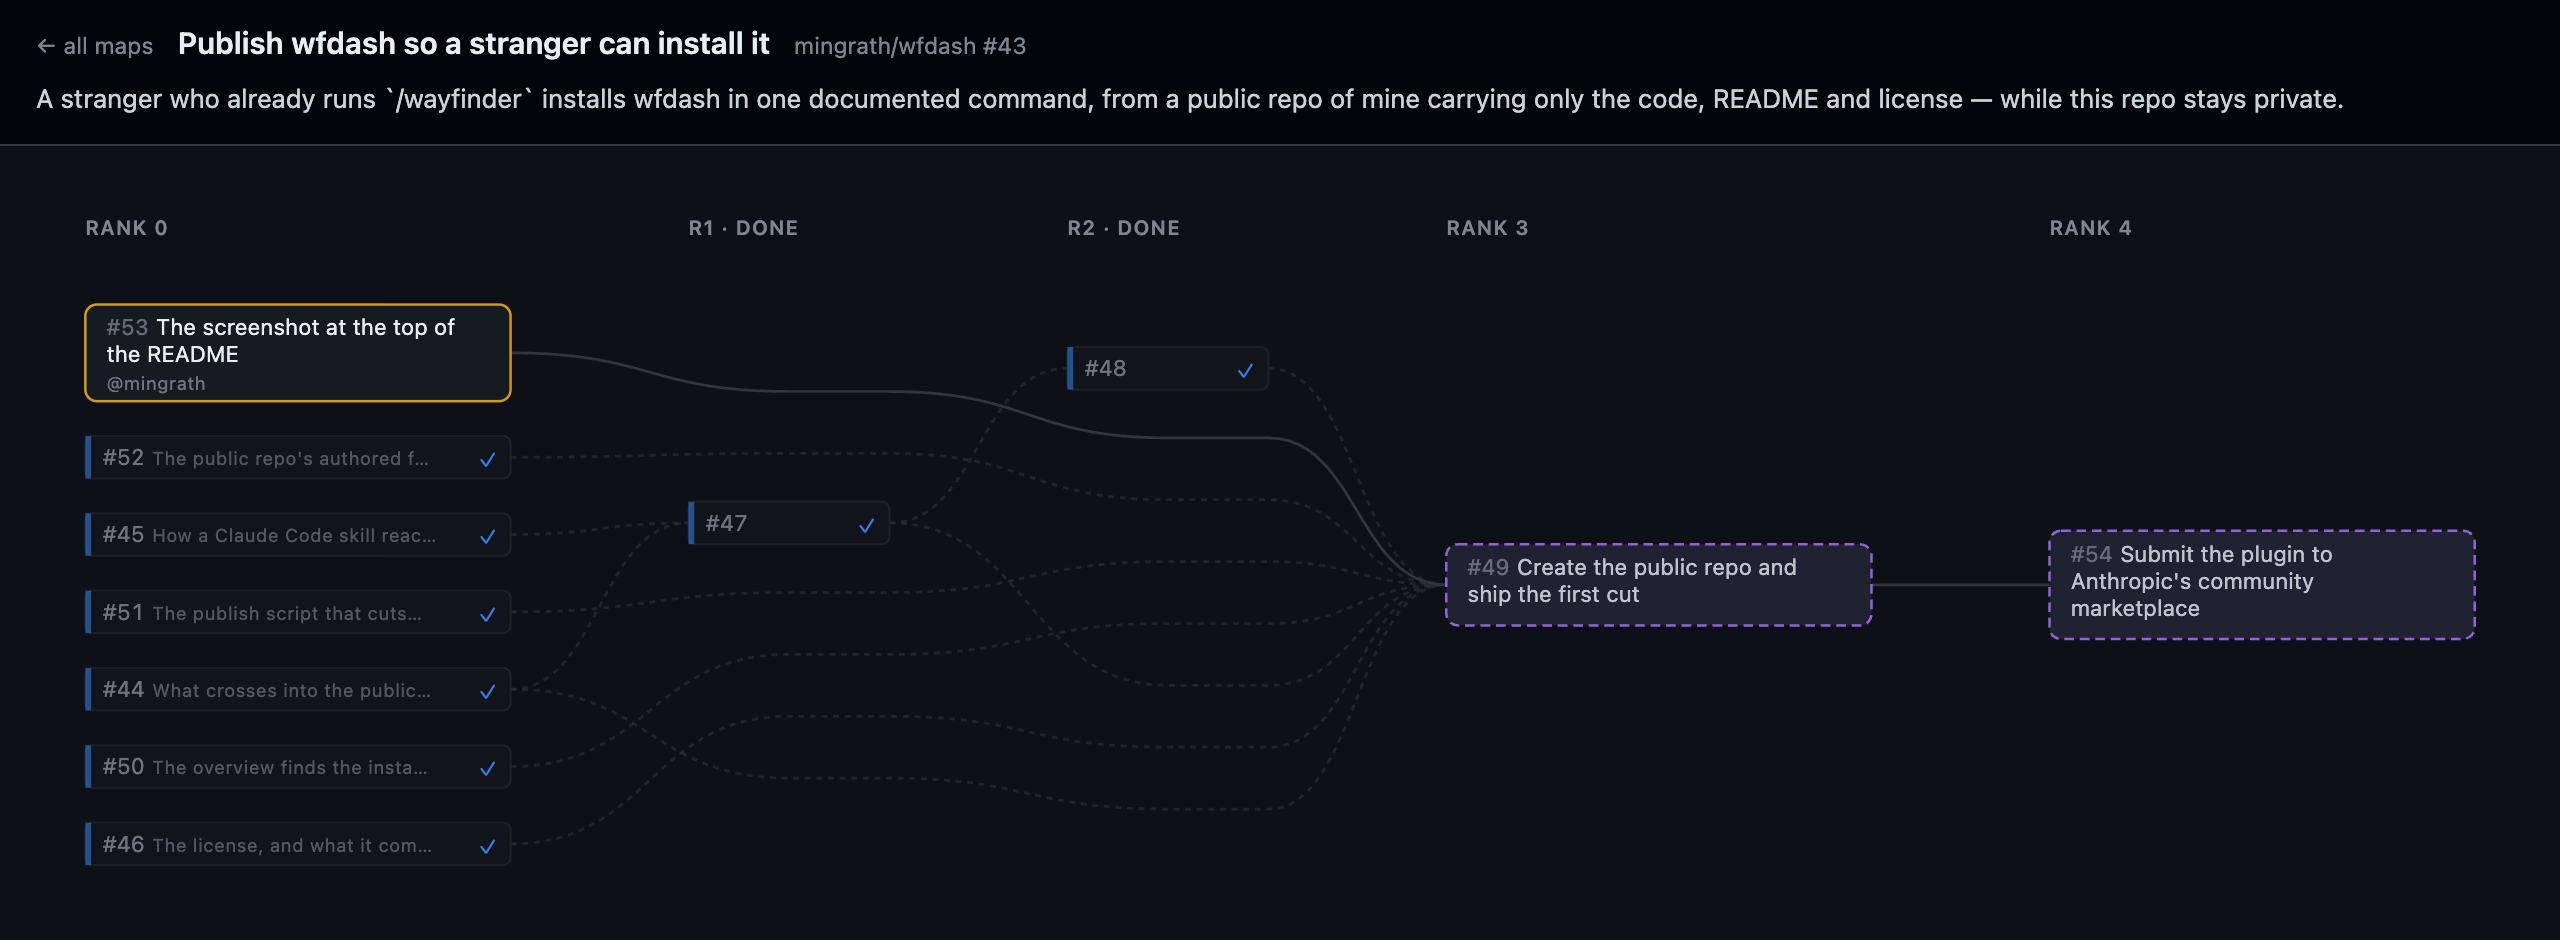
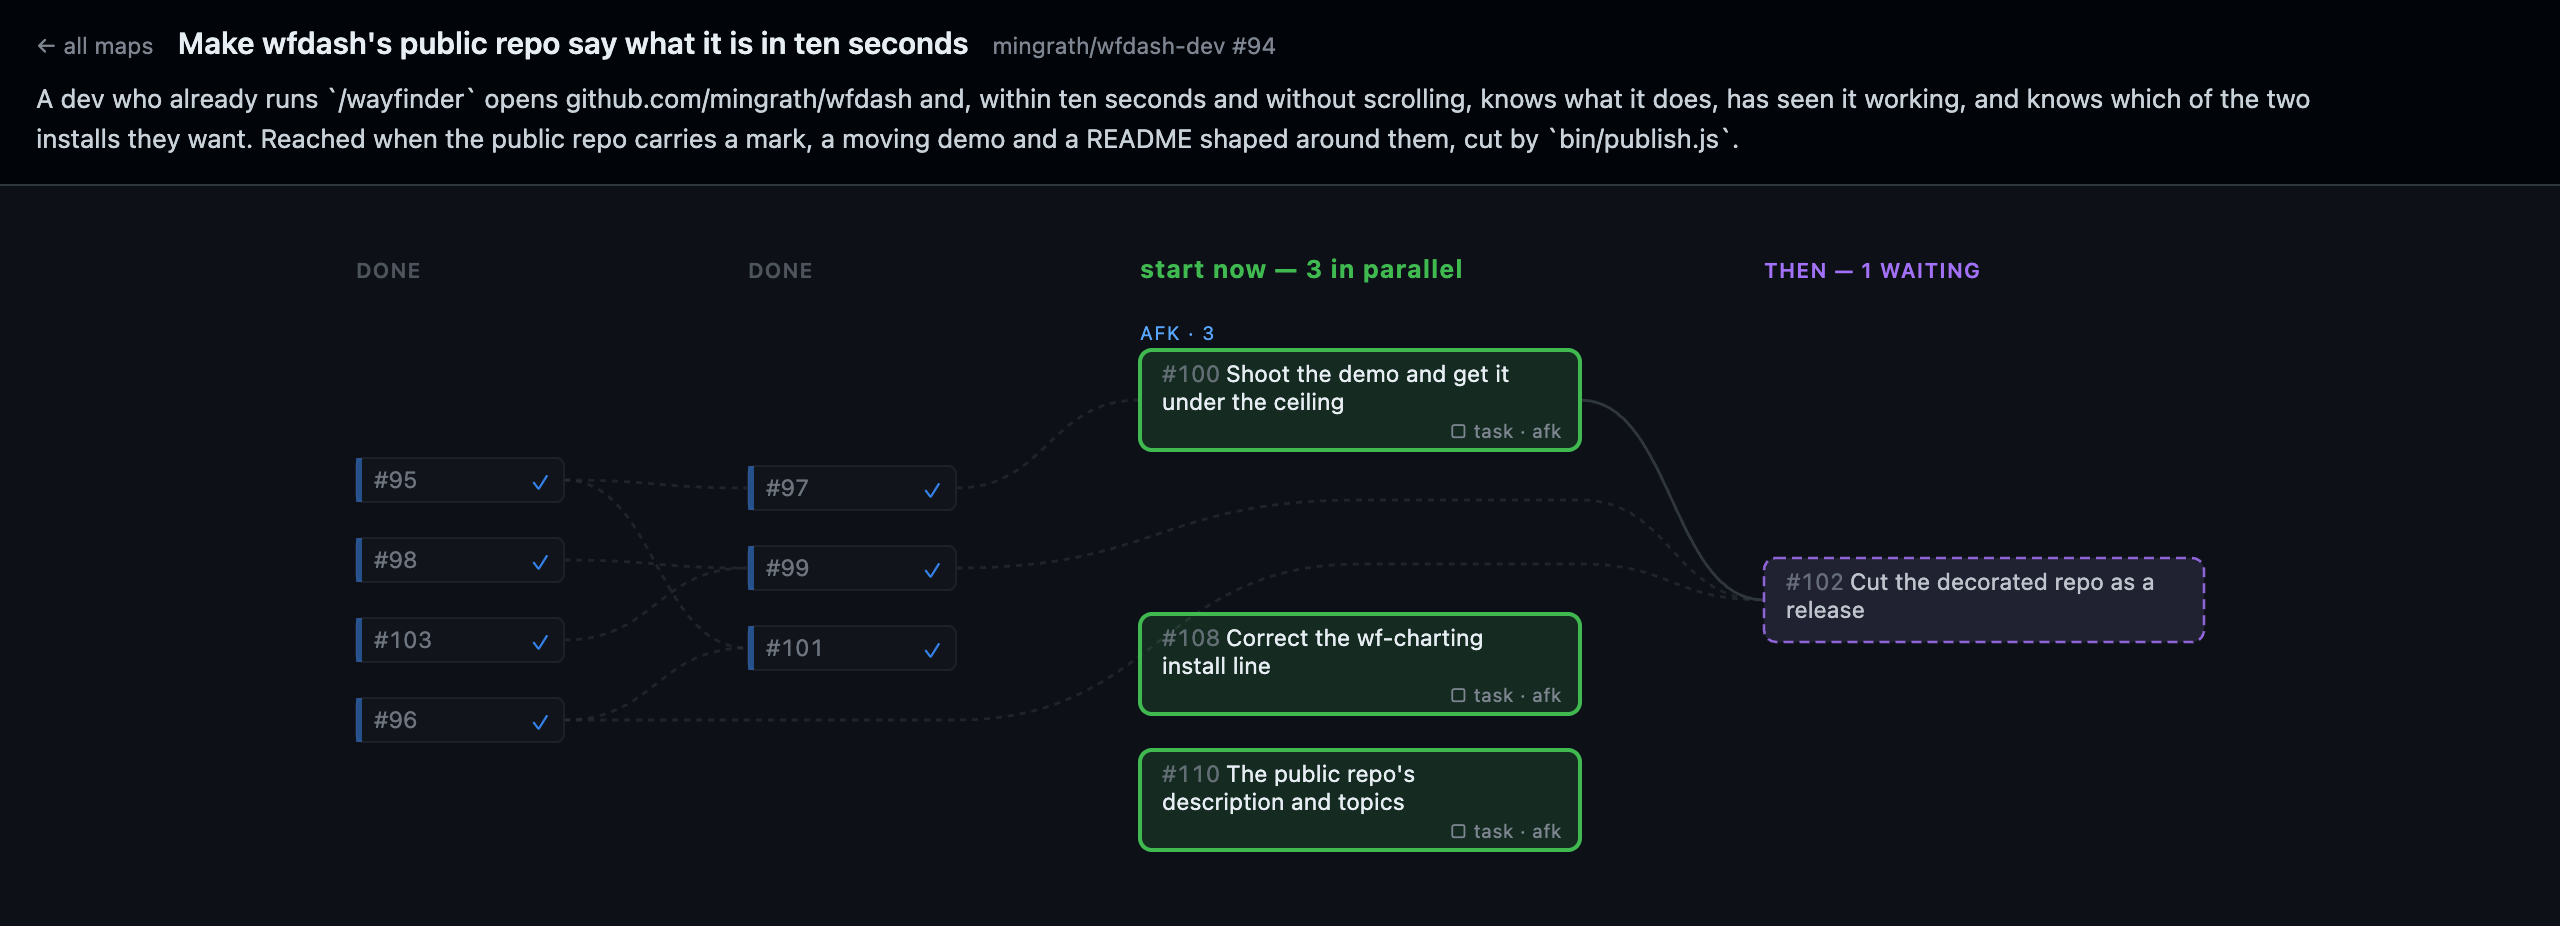
wfdash 0.1.5

diff --git a/plugins/wayfinder-tools/README.md b/plugins/wayfinder-tools/README.md
@@ -1,56 +1,48 @@
-# wfdash
+<picture>
+  <source media="(prefers-color-scheme: dark)" srcset="https://raw.githubusercontent.com/mingrath/wfdash/main/docs/wfdash-lockup-dark.svg">
+  <img alt="wfdash" src="https://raw.githubusercontent.com/mingrath/wfdash/main/docs/wfdash-lockup-light.svg" width="300">
+</picture>
 
-![the map view](https://raw.githubusercontent.com/mingrath/wfdash/main/docs/map-view.png)
+Your wayfinder maps as a local browser dashboard — see what needs you now, and what can run
+while you're away.
 
-A wayfinder map is a GitHub issue whose sub-issues are its tickets, wired together with
-native issue dependencies. GitHub renders that as a flat list, so the shape of an effort —
-what is finished, what is takeable right now, what is waiting on what — is not visible
-anywhere. `wfdash` serves it as a local browser dashboard: one map drawn as a dependency
-DAG, plus an overview of every map you can see, across every repo.
-
-Read-only, zero npm dependencies, no build step.
+![the map, before and after the human work is done](https://raw.githubusercontent.com/mingrath/wfdash/main/docs/demo.gif)
 
 ## Install
 
-    npm i -g @mingrath/wfdash
-    wfdash install
+**Which agent are you running?**
 
-The first line gives you the `wfdash` command. The second copies the skill into every agent
-on your machine that reads one, and tells you what it wrote and what it skipped:
+| | Run | You get |
+|---|---|---|
+| **Claude Code** | `/plugin marketplace add mingrath/wfdash`<br>`/plugin install wayfinder-tools@mingrath`<br>`/reload-plugins` | **the dashboard** — your maps as a DAG in a browser<br>**the charting rules** — injected into every `/wayfinder` session by a hook |
+| **Any other agent** that reads a `SKILL.md` | `npm i -g @mingrath/wfdash`<br>`wfdash install` | **the dashboard** — as the `wfdash` command, plus a skill so your agent can run it for you<br>**the charting rules** — as a `wf-charting` skill, written into every agent on your machine that reads one |
 
-    wfdash 0.1.1 — installed into 2 of 3 targets
+Both channels are cut from the same tree at the same version, and the rules are the *same
+file* either way, copied from one source at release, so the hook and the skill cannot drift.
 
-      wrote     ~/.agents/skills/wfdash/SKILL.md  Codex CLI, Cursor, Gemini CLI and 2 more
-      skipped   ~/.claude/skills/                 Claude Code — the wayfinder-tools plugin is already installed
-      wrote     ~/.kiro/skills/wfdash/SKILL.md    Kiro
+`wfdash install` tells you what it wrote and what it skipped:
+
+    wfdash 0.1.4 — installed into 2 of 3 targets
+
+      wrote     ~/.agents/skills/wfdash/SKILL.md       Codex CLI, Cursor, Gemini CLI and 2 more
+      wrote     ~/.agents/skills/wf-charting/SKILL.md  Codex CLI, Cursor, Gemini CLI and 2 more
+      skipped   ~/.claude/skills/                      Claude Code — the wayfinder-tools plugin is already installed
+      wrote     ~/.kiro/skills/wfdash/SKILL.md         Kiro
 
       not on this machine: Continue.dev, Windsurf, Qwen Code, JetBrains Junie, Trae, Kilo Code
 
-It writes at the user level only, one file per agent — `SKILL.md` and nothing else — and it
-never overwrites a `wfdash` skill it did not write. Run it again after upgrading; a second
-run is safe and reports `unchanged`. `--agent <name>` installs into one agent whether or not
-it is on this machine, and `--all` lists the ones that are not.
+It writes at the user level only, one file per skill, and never overwrites a skill it did
+not write. Run it again after upgrading; a second run is safe and reports `unchanged`.
+`--agent <name>` installs into one agent whether or not it is on this machine, and `--all`
+lists the ones that are not.
 
-**Claude Code users can skip npm entirely** and take the plugin instead:
+**Just the charting rules, without the dashboard:**
 
-    /plugin marketplace add mingrath/wfdash
-    /plugin install wayfinder-tools@mingrath
-    /reload-plugins
+    npx skills add mingrath/wfdash/wf-charting --global
 
-Both channels are cut from the same tree at the same version. If you have both, `wfdash
-install` leaves Claude Code alone and says so — the plugin already carries the skill.
-
-## Requires
-
-- **`gh` on `PATH` and authenticated** — `gh auth login`. wfdash shells out to it from the
-  server, so it inherits your existing auth and no token ever reaches the browser.
-- **Node 18 or newer** — ES modules and a built-in `fetch`. Nothing else; there are no
-  dependencies to install.
-- **An agent that loads a `SKILL.md`**, or none at all — `wfdash` is a normal command and
-  works on its own from a terminal.
-- **Maps to look at.** wfdash reads one convention: an issue labelled `wayfinder:map`, its
-  tickets as GitHub sub-issues, blocking as native issue dependencies. It is built for maps
-  charted by the `/wayfinder` skill.
+That installs `wf-charting` into `~/.agents/skills/`, which around two dozen agents read.
+Both flags are load-bearing: the subpath takes this one skill rather than both, and
+`--global` writes to your home rather than into the current directory.
 
 ## Use
 
@@ -82,33 +74,31 @@ The dashboard is running either way. `WFDASH_NO_BROWSER=1` forces it.
   start right now. Resolved tickets collapse into a block on the left. Click a ticket for its
   question, its blockers by name, and its whole comment thread.
 
+![the map view](https://raw.githubusercontent.com/mingrath/wfdash/main/docs/map-view.png)
+
 Both pages poll, so claiming a ticket in your terminal shows up without a reload.
 
-## The charting rules, and agents that are not Claude Code
+## Requires
 
-The plugin carries a second thing: a short set of standing rules for **charting** a map —
-mark every ticket `hitl` or `afk` as you create it, when a blocking arrow is warranted and
-why two tickets touching the same files do not need one, and how to chart a sitting so you
-are never left with nothing to answer, or with nothing running while you are away. In Claude
-Code a plugin hook injects them into every `/wayfinder` session, so the install above is all
-there is to it.
+- **`gh` on `PATH` and authenticated** — `gh auth login`. wfdash shells out to it from the
+  server, so it inherits your existing auth and no token ever reaches the browser.
+- **Node 18 or newer** — ES modules and a built-in `fetch`. Zero npm dependencies and no
+  build step, so there is nothing else to install.
+- **An agent that loads a `SKILL.md`**, or none at all — `wfdash` is a normal command and
+  works on its own from a terminal.
+- **Maps to look at.** wfdash reads one convention: an issue labelled `wayfinder:map`, its
+  tickets as GitHub sub-issues, blocking as native issue dependencies. It is built for maps
+  charted by the `/wayfinder` skill.
 
-Hooks are a Claude Code feature. Everywhere else the same rules ship as a skill called
-`wf-charting`, and **`wfdash install` writes it alongside the dashboard skill** — if you
-installed from npm you already have it, in the same roots and reported on its own line:
+## What it won't touch
 
-    wrote     ~/.agents/skills/wfdash/SKILL.md          Codex CLI, Cursor and 2 more
-    wrote     ~/.agents/skills/wf-charting/SKILL.md     Codex CLI, Cursor and 2 more
-
-It can also be taken on its own, without the dashboard:
-
-    npx skills add mingrath/wfdash        # then choose wf-charting
-
-Yes, that command reads as installing a dashboard — this repo is one effort with three faces,
-and that is the third. Every copy is the *same file* the hook injects, fanned out from one
-source at release, so the skill and the hook cannot drift into saying different things.
-
-Nothing here forks, copies, patches, or replaces the `/wayfinder` skill itself.
+- It never writes to your tracker. There are zero write endpoints.
+- Nothing here forks, copies, patches, or replaces the `/wayfinder` skill itself.
+- It shells out to `gh` from the server, so it inherits your existing auth and no token
+  ever reaches the browser.
+- It serves on `127.0.0.1:7777` and nowhere else. `WFDASH_PORT` moves it. It holds no auth,
+  so reaching it from another machine is your port-forward to arrange, not a feature here.
+- It reaps itself after 30 idle minutes.
 
 ## Which agents this works in
 
@@ -145,15 +135,6 @@ not found by that search — set `WFDASH_SEARCH` to a query that reaches them:
 
 A search that quietly returns a subset is the one failure this cannot detect for itself, so
 a short overview is worth a second look rather than a shrug.
-
-## What it will not do
-
-- It never writes to your tracker. There are zero write endpoints.
-- It shells out to `gh` from the server, so it inherits your existing auth and no token
-  ever reaches the browser.
-- It serves on `127.0.0.1:7777` and nowhere else. `WFDASH_PORT` moves it. It holds no auth,
-  so reaching it from another machine is your port-forward to arrange, not a feature here.
-- It reaps itself after 30 idle minutes.
 
 ## Updating
 

diff --git a/README.md b/README.md
@@ -1,56 +1,48 @@
-# wfdash
+<picture>
+  <source media="(prefers-color-scheme: dark)" srcset="docs/wfdash-lockup-dark.svg">
+  <img alt="wfdash" src="docs/wfdash-lockup-light.svg" width="300">
+</picture>
 
-![the map view](docs/map-view.png)
+Your wayfinder maps as a local browser dashboard — see what needs you now, and what can run
+while you're away.
 
-A wayfinder map is a GitHub issue whose sub-issues are its tickets, wired together with
-native issue dependencies. GitHub renders that as a flat list, so the shape of an effort —
-what is finished, what is takeable right now, what is waiting on what — is not visible
-anywhere. `wfdash` serves it as a local browser dashboard: one map drawn as a dependency
-DAG, plus an overview of every map you can see, across every repo.
-
-Read-only, zero npm dependencies, no build step.
+![the map, before and after the human work is done](docs/demo.gif)
 
 ## Install
 
-    npm i -g @mingrath/wfdash
-    wfdash install
+**Which agent are you running?**
 
-The first line gives you the `wfdash` command. The second copies the skill into every agent
-on your machine that reads one, and tells you what it wrote and what it skipped:
+| | Run | You get |
+|---|---|---|
+| **Claude Code** | `/plugin marketplace add mingrath/wfdash`<br>`/plugin install wayfinder-tools@mingrath`<br>`/reload-plugins` | **the dashboard** — your maps as a DAG in a browser<br>**the charting rules** — injected into every `/wayfinder` session by a hook |
+| **Any other agent** that reads a `SKILL.md` | `npm i -g @mingrath/wfdash`<br>`wfdash install` | **the dashboard** — as the `wfdash` command, plus a skill so your agent can run it for you<br>**the charting rules** — as a `wf-charting` skill, written into every agent on your machine that reads one |
 
-    wfdash 0.1.1 — installed into 2 of 3 targets
+Both channels are cut from the same tree at the same version, and the rules are the *same
+file* either way, copied from one source at release, so the hook and the skill cannot drift.
 
-      wrote     ~/.agents/skills/wfdash/SKILL.md  Codex CLI, Cursor, Gemini CLI and 2 more
-      skipped   ~/.claude/skills/                 Claude Code — the wayfinder-tools plugin is already installed
-      wrote     ~/.kiro/skills/wfdash/SKILL.md    Kiro
+`wfdash install` tells you what it wrote and what it skipped:
+
+    wfdash 0.1.4 — installed into 2 of 3 targets
+
+      wrote     ~/.agents/skills/wfdash/SKILL.md       Codex CLI, Cursor, Gemini CLI and 2 more
+      wrote     ~/.agents/skills/wf-charting/SKILL.md  Codex CLI, Cursor, Gemini CLI and 2 more
+      skipped   ~/.claude/skills/                      Claude Code — the wayfinder-tools plugin is already installed
+      wrote     ~/.kiro/skills/wfdash/SKILL.md         Kiro
 
       not on this machine: Continue.dev, Windsurf, Qwen Code, JetBrains Junie, Trae, Kilo Code
 
-It writes at the user level only, one file per agent — `SKILL.md` and nothing else — and it
-never overwrites a `wfdash` skill it did not write. Run it again after upgrading; a second
-run is safe and reports `unchanged`. `--agent <name>` installs into one agent whether or not
-it is on this machine, and `--all` lists the ones that are not.
+It writes at the user level only, one file per skill, and never overwrites a skill it did
+not write. Run it again after upgrading; a second run is safe and reports `unchanged`.
+`--agent <name>` installs into one agent whether or not it is on this machine, and `--all`
+lists the ones that are not.
 
-**Claude Code users can skip npm entirely** and take the plugin instead:
+**Just the charting rules, without the dashboard:**
 
-    /plugin marketplace add mingrath/wfdash
-    /plugin install wayfinder-tools@mingrath
-    /reload-plugins
+    npx skills add mingrath/wfdash/wf-charting --global
 
-Both channels are cut from the same tree at the same version. If you have both, `wfdash
-install` leaves Claude Code alone and says so — the plugin already carries the skill.
-
-## Requires
-
-- **`gh` on `PATH` and authenticated** — `gh auth login`. wfdash shells out to it from the
-  server, so it inherits your existing auth and no token ever reaches the browser.
-- **Node 18 or newer** — ES modules and a built-in `fetch`. Nothing else; there are no
-  dependencies to install.
-- **An agent that loads a `SKILL.md`**, or none at all — `wfdash` is a normal command and
-  works on its own from a terminal.
-- **Maps to look at.** wfdash reads one convention: an issue labelled `wayfinder:map`, its
-  tickets as GitHub sub-issues, blocking as native issue dependencies. It is built for maps
-  charted by the `/wayfinder` skill.
+That installs `wf-charting` into `~/.agents/skills/`, which around two dozen agents read.
+Both flags are load-bearing: the subpath takes this one skill rather than both, and
+`--global` writes to your home rather than into the current directory.
 
 ## Use
 
@@ -82,33 +74,31 @@ The dashboard is running either way. `WFDASH_NO_BROWSER=1` forces it.
   start right now. Resolved tickets collapse into a block on the left. Click a ticket for its
   question, its blockers by name, and its whole comment thread.
 
+![the map view](docs/map-view.png)
+
 Both pages poll, so claiming a ticket in your terminal shows up without a reload.
 
-## The charting rules, and agents that are not Claude Code
+## Requires
 
-The plugin carries a second thing: a short set of standing rules for **charting** a map —
-mark every ticket `hitl` or `afk` as you create it, when a blocking arrow is warranted and
-why two tickets touching the same files do not need one, and how to chart a sitting so you
-are never left with nothing to answer, or with nothing running while you are away. In Claude
-Code a plugin hook injects them into every `/wayfinder` session, so the install above is all
-there is to it.
+- **`gh` on `PATH` and authenticated** — `gh auth login`. wfdash shells out to it from the
+  server, so it inherits your existing auth and no token ever reaches the browser.
+- **Node 18 or newer** — ES modules and a built-in `fetch`. Zero npm dependencies and no
+  build step, so there is nothing else to install.
+- **An agent that loads a `SKILL.md`**, or none at all — `wfdash` is a normal command and
+  works on its own from a terminal.
+- **Maps to look at.** wfdash reads one convention: an issue labelled `wayfinder:map`, its
+  tickets as GitHub sub-issues, blocking as native issue dependencies. It is built for maps
+  charted by the `/wayfinder` skill.
 
-Hooks are a Claude Code feature. Everywhere else the same rules ship as a skill called
-`wf-charting`, and **`wfdash install` writes it alongside the dashboard skill** — if you
-installed from npm you already have it, in the same roots and reported on its own line:
+## What it won't touch
 
-    wrote     ~/.agents/skills/wfdash/SKILL.md          Codex CLI, Cursor and 2 more
-    wrote     ~/.agents/skills/wf-charting/SKILL.md     Codex CLI, Cursor and 2 more
-
-It can also be taken on its own, without the dashboard:
-
-    npx skills add mingrath/wfdash        # then choose wf-charting
-
-Yes, that command reads as installing a dashboard — this repo is one effort with three faces,
-and that is the third. Every copy is the *same file* the hook injects, fanned out from one
-source at release, so the skill and the hook cannot drift into saying different things.
-
-Nothing here forks, copies, patches, or replaces the `/wayfinder` skill itself.
+- It never writes to your tracker. There are zero write endpoints.
+- Nothing here forks, copies, patches, or replaces the `/wayfinder` skill itself.
+- It shells out to `gh` from the server, so it inherits your existing auth and no token
+  ever reaches the browser.
+- It serves on `127.0.0.1:7777` and nowhere else. `WFDASH_PORT` moves it. It holds no auth,
+  so reaching it from another machine is your port-forward to arrange, not a feature here.
+- It reaps itself after 30 idle minutes.
 
 ## Which agents this works in
 
@@ -145,15 +135,6 @@ not found by that search — set `WFDASH_SEARCH` to a query that reaches them:
 
 A search that quietly returns a subset is the one failure this cannot detect for itself, so
 a short overview is worth a second look rather than a shrug.
-
-## What it will not do
-
-- It never writes to your tracker. There are zero write endpoints.
-- It shells out to `gh` from the server, so it inherits your existing auth and no token
-  ever reaches the browser.
-- It serves on `127.0.0.1:7777` and nowhere else. `WFDASH_PORT` moves it. It holds no auth,
-  so reaching it from another machine is your port-forward to arrange, not a feature here.
-- It reaps itself after 30 idle minutes.
 
 ## Updating
 
